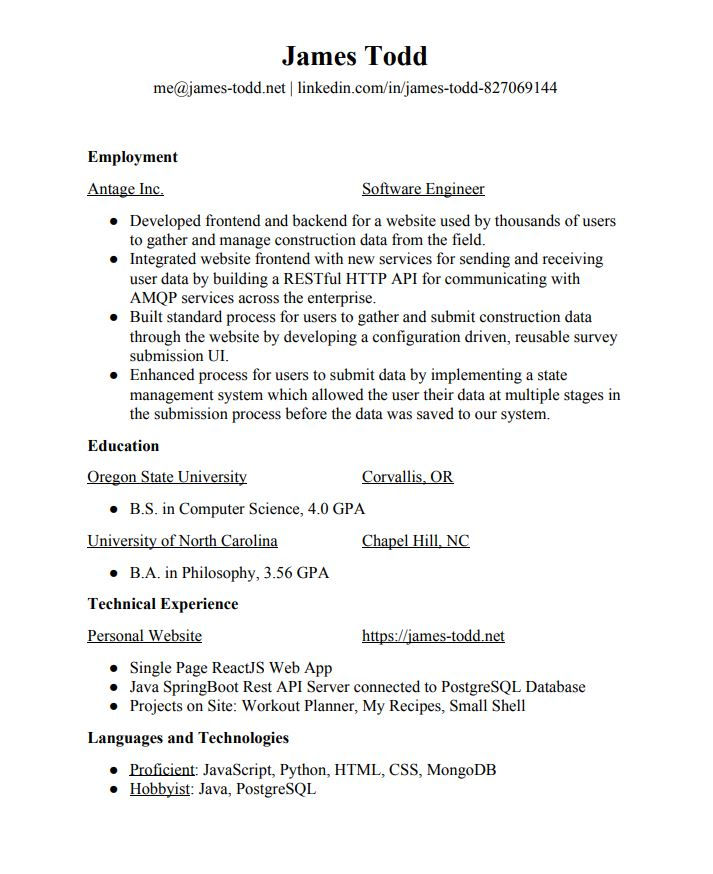
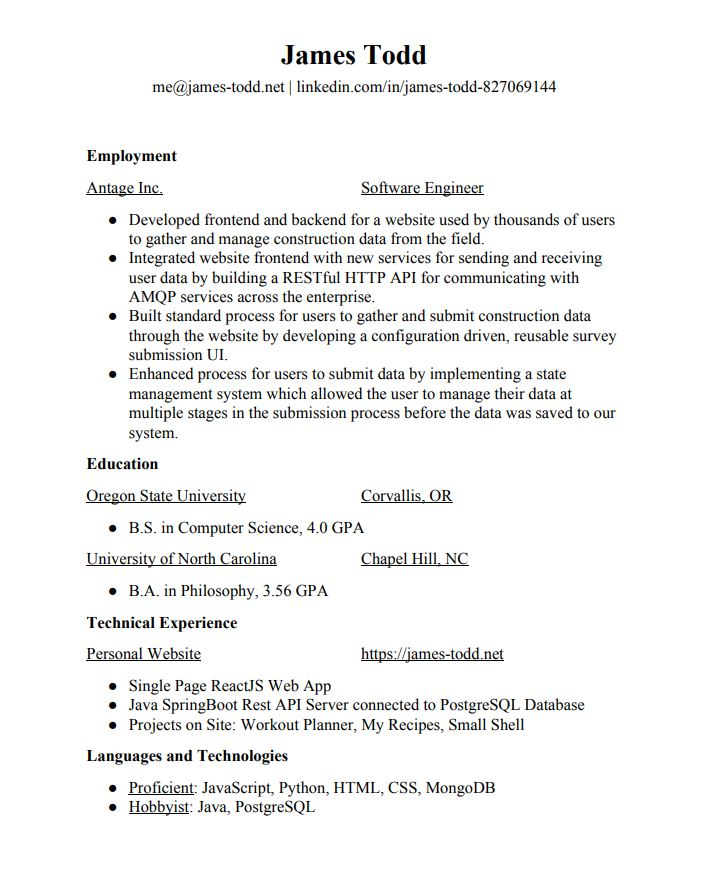
Finish Contact Page

Changed region(s): [[0.1236, 0.1546, 0.8652, 0.9588], [0.2163, 0.0309, 0.7725, 0.1237]]

diff --git a/src/components/Home.js b/src/components/Home.js
@@ -9,7 +9,7 @@ class Home extends Component{
 		return(
 			<Container fluid>
 				<Row>
-					<Col>
+					<Col md={{offset: 1}}>
 						<Card border="dark">
 							<Card.Img variant="top" src={me}/>
 							<Card.Body>
@@ -21,8 +21,8 @@ class Home extends Component{
 							</Card.Body>
 						</Card>
 					</Col>
-					<Col>
-						<Image style = {{border: "1px solid black"}} src={resume}/>
+					<Col md={{offset: 1}}>
+						<Image fluid style={{border: "1px solid black", height: '800px'}} src={resume}/>
 					</Col>
 				</Row>
 			</Container>

diff --git a/src/components/Bar.js b/src/components/Bar.js
@@ -6,11 +6,11 @@ import '../style/Bar.css';
 class Bar extends Component{
 	render() {
 		return (
-			<Navbar className='bar'>
+			<Navbar className="bar">
 				<Navbar.Brand href="/home">Home</Navbar.Brand>
 				<Nav.Link href="/projects">Projects</Nav.Link>
 				<Nav.Link href="/contact">Contact</Nav.Link>
-				<Nav.Link href="https://github.com/jtodd819"><i style={{'font-size': '30px'}}className='fa fa-github'/></Nav.Link>
+				<Nav.Link href="https://github.com/jtodd819"><i className='fa fa-github icon'/></Nav.Link>
 			</Navbar>
 		);
 	}

diff --git a/src/components/MailForm.js b/src/components/MailForm.js
@@ -117,7 +117,7 @@ class MailForm extends Component{
 							<Form.Control.Feedback>Looks Good!</Form.Control.Feedback>
 							<Form.Control.Feedback type="invalid">{errors.body}</Form.Control.Feedback>
 						</Form.Group>
-						<Button type="submit"></Button>
+						<Button type="submit">Send</Button>
 					</Form>
 				)}
 			</Formik>

diff --git a/src/components/Contact.js b/src/components/Contact.js
@@ -5,7 +5,7 @@ import { Container } from 'react-bootstrap';
 class Contact extends Component{
 	render(){
 		return(
-			<Container>
+			<Container style = {{'background-color': 'rgb(209, 224, 224)', 'padding': '30px 15px 30px 15px'}}>
 				<MailForm />
 			</Container>
 		);

diff --git a/src/style/MailForm.css b/src/style/MailForm.css
@@ -1,7 +1,3 @@
-.mailForm .has-error{
-	color: #D33682;
-}
-
-.mailForm .has-success{
-	color: #2AA198;
+.form-control {
+	border: 1px solid black;
 }

diff --git a/src/style/Bar.css b/src/style/Bar.css
@@ -11,3 +11,6 @@
     float: none;
 }
 
+i.icon {
+  font-size: 25px;
+}
